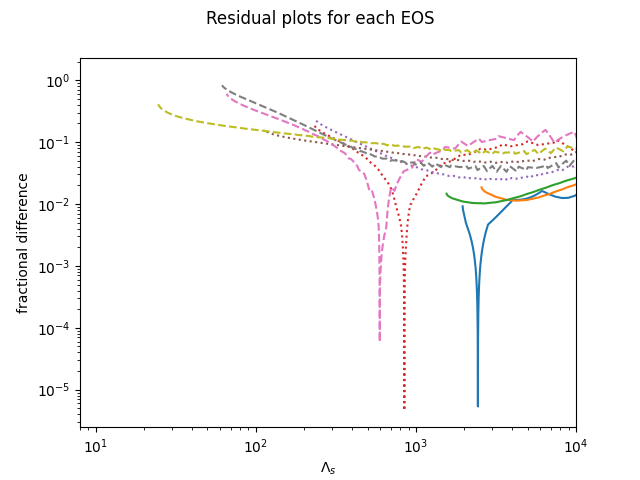
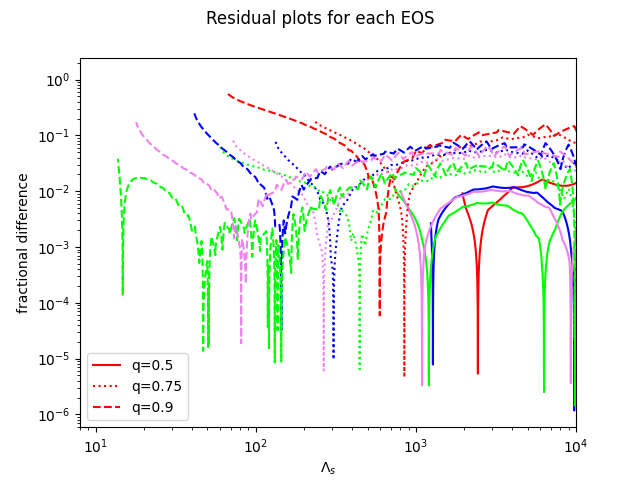
closely resembles yagi & yunes plot

diff --git a/plotter.py b/plotter.py
@@ -26,23 +26,31 @@ class Plotter:
                 dictionary[name + '_residual'] = residual
 
             self.linestyles = ['solid', 'dotted', 'dashed', 'dashdot']
+            self.colors = ['red', 'blue', 'lime', 'violet', 'orange']
 
     def plot_main_on_ax(self, ax):
-        for q in self.qs:
+        for i, q in enumerate(self.qs):
             dictionary = self.qs_dict[str(q)]
             fit = dictionary['fit']
             lower_lims = []
+            label = None
 
-            for name in self.names:
+            for j, name in enumerate(self.names):
                 eos = dictionary[name]
-                eos.plot(ax=ax)
+                color = self.colors[j % len(self.names)]
+                if i == 0:
+                    label = name
+                eos.plot(ax=ax, label=label, color=color)
 
                 lower_lims.append(eos.lower_lim)
 
             lower_lim = np.min(lower_lims)
             upper_lim = ax.get_xlim()[1]
 
-            fit.plot(ax=ax, lims=(lower_lim, upper_lim))
+            if i == 0:
+                label=fit.name
+
+            fit.plot(ax=ax, lims=(lower_lim, upper_lim), label=label)
 
         ax.set_ylim((self.ax_min, self.ax_max))
         ax.set_xlim((self.ax_min, self.ax_max))
@@ -52,17 +60,29 @@ class Plotter:
 
     def plot_residual_on_ax(self, ax):
         for i, q in enumerate(self.qs):
-            linestyle = self.linestyles[i % len(self.qs)]
             dictionary = self.qs_dict[str(q)]
-            for name in self.names:
+
+            linestyle = self.linestyles[i % len(self.qs)]
+
+            for j, name in enumerate(self.names):
+                color = self.colors[j % len(self.names)]
+
                 x = dictionary[name].lambda_s
                 y = dictionary[name + '_residual']
-                ax.plot(x, y, label=name + ' q=' + str(q), linestyle=linestyle)
+
+                label = None
+
+                if j == 0:
+                    label = 'q=' + str(q)
+
+                ax.plot(x, y, label=label, linestyle=linestyle, color=color)
 
         ax.set_xlim((self.ax_min, self.ax_max))
 
         ax.set_xscale('log')
         ax.set_yscale('log')
+
+        ax.legend()
 
 
     def plot_main(self, save=False, show=False):
@@ -74,9 +94,10 @@ class Plotter:
 
         fig.suptitle('EOS and fit for q in ' + str(self.qs))
 
-        # plt.legend()
+        plt.legend()
+
         if save:
-            plt.savefig('plots/plot.png')
+            plt.savefig('plots/main_plot.png')
         if show:
             plt.show()
 
@@ -103,6 +124,12 @@ class Plotter:
         self.plot_main_on_ax(ax=ax1)
         self.plot_residual_on_ax(ax=ax2)
 
+        ax1.set_ylabel(r'$\Lambda_a$')
+        ax2.set_ylabel(r'fractional diff. from fit')
+        ax2.set_xlabel(r'$\Lambda_s$')
+
+        ax1.legend()
+
         if save:
             fig.savefig('plots/combined_plot.png')
         if show:
@@ -121,7 +148,9 @@ class Plotter:
         ax.set_xlabel(r'm')
         ax.set_ylabel(r'$\Lambda$(m)')
         fig.suptitle('Raw plot for lambda(m) vs m for various EOS')
-        plt.legend()
+
+        # plt.legend()
+
         if save:
             plt.savefig('plots/raw_plot.png')
         if show:

diff --git a/fits.py b/fits.py
@@ -4,6 +4,8 @@ class YagiYunes:
     def __init__(self, q):
         self.q = q
 
+        self.name = 'Yagi & Yunes fit'
+
         self.b = np.array([-27.7408, 8.42358, 122.686, -19.7551, -175.496, 133.708])
         self.c = np.array([-25.5593, 5.58527, 92.0337, 26.8586, -70.247, -56.3076])
 
@@ -36,7 +38,7 @@ class YagiYunes:
         lambda_s = np.real(lambda_s) # imaginary parts should be all zero
         lambda_a = np.real(lambda_a)
 
-        ax.plot(lambda_s, lambda_a, label='Yagi & Yunes fit for q=' + str(self.q), color='black', **kwargs)
+        ax.plot(lambda_s, lambda_a, color='black', **kwargs)
 
         text_x = np.min(lambda_s) / 1.5
         text_y = np.min(lambda_a) * 1.5

diff --git a/eos.py b/eos.py
@@ -32,7 +32,7 @@ class EOS:
         self.lower_lim = np.min(self.lambda_s)
 
     def plot(self, ax, **kwargs):
-        ax.plot(self.lambda_s, self.lambda_a, label=self.name + ' q=' + str(self.q), **kwargs)
+        ax.plot(self.lambda_s, self.lambda_a, **kwargs)
 
     def plot_raw(self, ax, **kwargs):
-        ax.plot(self.ms, self.Lambdas, label=self.name, **kwargs)
+        ax.plot(self.ms, self.Lambdas, **kwargs)

diff --git a/main.py b/main.py
@@ -3,7 +3,7 @@ from plotter import Plotter
 
 names = ['alf2cr', 'alf4cr', 'bsk20cr', 'bsk21cr', 'bsr2cr', 'dd2ycr', 'ddhdcr', 'ddq2acr', 'gm1bcr', 'h4cr',
          'hqc18cr', 'hqc19cr', 'mpa1cr', 'nl3cr', 'nl3ycr', 'rscr', 'sk255cr', 'ski2cr', 'skopcr', 'sly230acr',
-         'slycr', 'tm1cr'][::8]
+         'slycr', 'tm1cr'][:4]
 qs = [0.5, 0.75, 0.9]
 
 ax_min = 8
